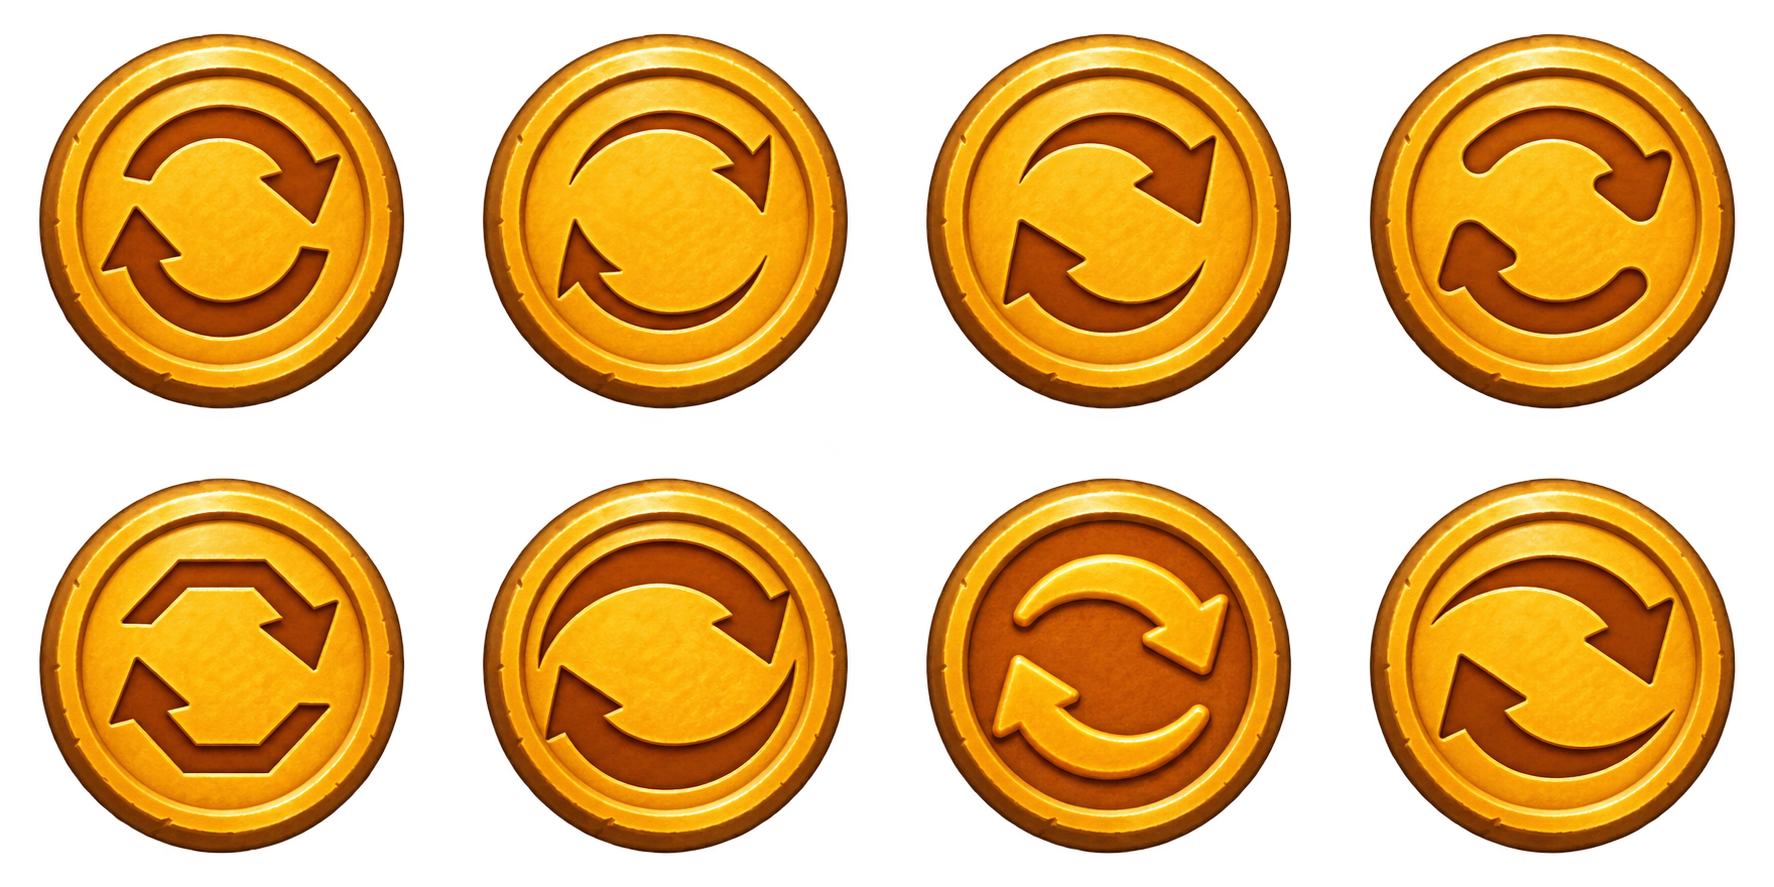
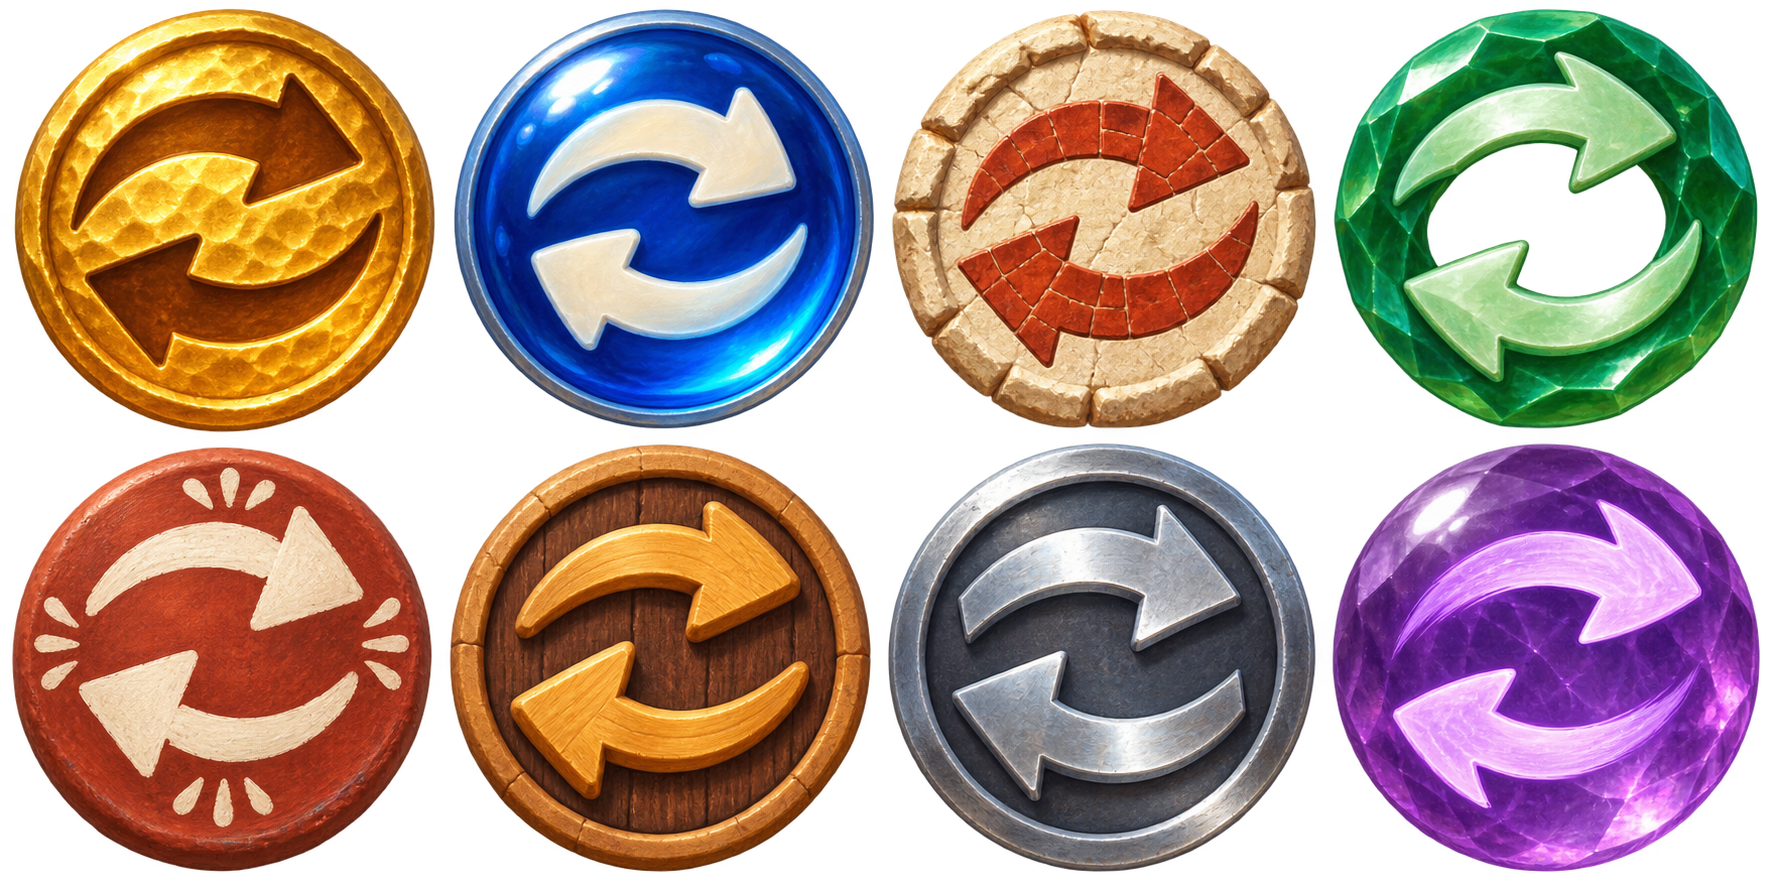
Show eight round Moves badges in distinct materials

diff --git a/games/relic-rush/docs/asset-catalogue.md b/games/relic-rush/docs/asset-catalogue.md
@@ -973,11 +973,11 @@ build/relic-rush --headless --fresh --mute --size 480x900 --level 9 --lua 'games
 ```
 
 The [eight-variant comparison](review/moves-capsule/variants.jpg) shows all
-icons at wallet scale on the expedition backdrop. ImageGen used the Moves and
-wallet coins as references and painted all eight in a single [transparent atlas](review/moves-capsule/variants-atlas.png).
-Reading order follows the 4 × 2 grid. The designs use broad recessed arrows,
-thin tapered arrows, oversized wedge tips, rounded tips, angular arrows,
-nearly closed arcs, raised gold arrows, and diagonal tapered arrows. The preview
-reads cells directly as texture regions and uses the same capsule and count for
-each. Add `--moves-variants` to the command above and crop the top 141 logical
-pixels for the comparison sheet.
+icons at wallet scale on the expedition backdrop. ImageGen painted eight round
+badges with two curved arrows in a single [transparent atlas](review/moves-capsule/variants-atlas.png).
+Reading order follows the 4 × 2 grid. Materials are hammered gold, cobalt glass,
+sandstone with terracotta inlay, jade, painted clay, carved wood, silver, and
+amethyst. The preview reads the authored cells directly as texture regions and
+uses the same icon scale, capsule, and count for all eight. Add
+`--moves-variants` to the command above and crop the top 141 logical pixels for
+the comparison sheet.
